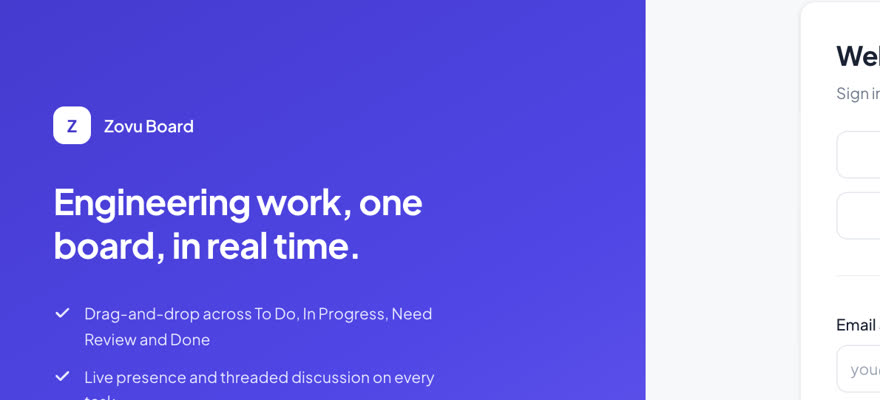
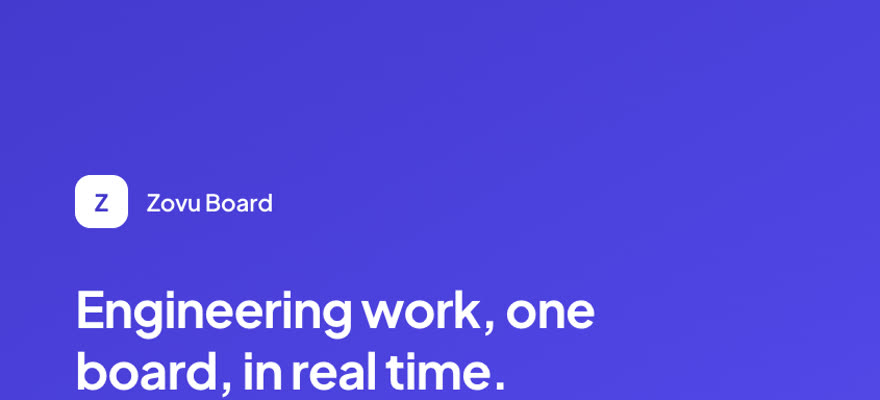
feat(site): wider layout, hand-ordered lead, VaultSplit link, drop timer
- Page container goes from max-w-5xl (1024px) to a shared .container-page
  at max-w-[1400px]; content width on a 1440px screen is now 1320px
  instead of 1024. Header, hero, feed and footer all use it, so they stay
  aligned.
- Removes the session-elapsed timer from the hero. The desk clock stays.
- Feed lead is now hand-ordered: Hymnes, EdoMatch, StudyStats, AI Fitness,
  01 Supplies, Concours de Dictée ISDI, BSc. To make that hold on a
  multi-column layout, the packer deals the lead block round-robin across
  columns so it reads 1-2-3 along the rows, then fills the remainder
  longest-first for balance. Column spread stays at 3.7%.
- VaultSplit now links vaultsplit.co rather than the GitHub org, and the
  role card says what the product actually is.
- Re-cropped the Zovu cover, which was clipping mid-word at the wider
  card size.

diff --git a/src/components/site/Feed.tsx b/src/components/site/Feed.tsx
@@ -1,6 +1,6 @@
 import FeedCard from "@/components/site/FeedCard";
 import type { Card } from "@/data/feed";
-import { cards, tagCounts } from "@/data/feed";
+import { cards, leadCardIds, tagCounts } from "@/data/feed";
 import { useEffect, useMemo, useRef, useState } from "react";
 
 const PAGE = 12;
@@ -32,36 +32,44 @@ function useColumnCount() {
  * Packs cards into columns using their `weight` height hint, so the layout is
  * balanced on first paint instead of reflowing once images load.
  *
- * Placing cards in feed order and always taking the shortest column leaves big
- * ragged columns — a tall card arriving last has nowhere good to go. Assigning
- * the *tallest* cards first (longest-processing-time first) fixes that, and
- * re-sorting each column by feed position afterwards means each column still
- * reads top-to-bottom in order.
+ * Two passes, because balance alone doesn't respect editorial order:
  *
- * The first card is pinned to column 0 so the pitch always leads the feed.
+ * 1. The lead cards go in first, dealt across the columns left to right. That
+ *    makes them read 1-2-3 along the top rows, which is what "put these first"
+ *    means on a multi-column layout — placing them by height instead would
+ *    scatter the order.
+ * 2. Everything else is placed longest-first (LPT). Assigning the tallest
+ *    remaining card to the shortest column is what keeps the columns even;
+ *    doing it in feed order instead leaves a tall card arriving last with
+ *    nowhere good to go.
+ *
+ * Each column is then sorted by feed position. Lead cards sort above the rest
+ * automatically, since they occupy the lowest indices.
  */
-function balance(items: Card[], cols: number): Card[][] {
+function balance(items: Card[], cols: number, leadCount: number): Card[][] {
   const columns: number[][] = Array.from({ length: cols }, () => []);
   const heights: number[] = new Array(cols).fill(0);
 
-  const shortest = () => {
-    let best = 0;
-    for (let i = 1; i < cols; i++) if (heights[i] < heights[best]) best = i;
-    return best;
+  const place = (index: number, weight: number, column?: number) => {
+    let target = column ?? 0;
+    if (column === undefined) {
+      for (let i = 1; i < cols; i++) if (heights[i] < heights[target]) target = i;
+    }
+    columns[target].push(index);
+    heights[target] += weight;
   };
 
-  const rest = items.map((item, index) => ({ item, index }));
-  const pinned = rest.shift();
-  if (pinned) {
-    columns[0].push(pinned.index);
-    heights[0] += pinned.item.weight;
-  }
+  // Pass 1 — the lead block, dealt round-robin so row order matches feed order.
+  items.slice(0, leadCount).forEach((item, index) => {
+    place(index, item.weight, index % cols);
+  });
 
-  for (const { item, index } of [...rest].sort((a, b) => b.item.weight - a.item.weight)) {
-    const target = shortest();
-    columns[target].push(index);
-    heights[target] += item.weight;
-  }
+  // Pass 2 — everything else, tallest first.
+  items
+    .slice(leadCount)
+    .map((item, i) => ({ item, index: leadCount + i }))
+    .sort((a, b) => b.item.weight - a.item.weight)
+    .forEach(({ item, index }) => place(index, item.weight));
 
   return columns.map((column) => column.sort((a, b) => a - b).map((i) => items[i]));
 }
@@ -78,7 +86,14 @@ const Feed = () => {
   );
 
   const visible = filtered.slice(0, limit);
-  const columns = useMemo(() => balance(visible, cols), [visible, cols]);
+  // Lead cards sit at the front of the feed, so filtering preserves the block —
+  // count how many survived rather than assuming a fixed size.
+  const leadCount = useMemo(() => {
+    let n = 0;
+    while (n < visible.length && leadCardIds.has(visible[n].id)) n++;
+    return n;
+  }, [visible]);
+  const columns = useMemo(() => balance(visible, cols, leadCount), [visible, cols, leadCount]);
 
   const selectTag = (tag: string | null) => {
     setActive(tag);

diff --git a/src/data/feed.ts b/src/data/feed.ts
@@ -59,6 +59,8 @@ export interface RoleCard extends BaseCard {
   logo?: string;
   /** Apps that shipped under this role — rendered as a row of store icons. */
   apps?: { name: string; icon: string; url?: string }[];
+  /** Optional outbound links, e.g. the company's product site. */
+  links?: { label: string; href: string }[];
 }
 
 export interface StatCard extends BaseCard {
@@ -275,13 +277,14 @@ const roles: RoleCard[] = [
     kind: "role",
     date: "2026-09-01",
     tags: ["fintech", "mobile", "flutter"],
-    weight: 2.2,
+    weight: 3.2,
     title: "Senior Mobile Engineer",
     company: "VaultSplit",
     period: "2026 — Present",
     location: "Remote",
-    body: "Shipping the product's mobile surface — release pipeline, accessibility and payments integration.",
+    body: "Autonomous finance for founders — revenue split into vaults on arrival, reconciled in a double-entry ledger, with an AI CFO on top. I ship the mobile surface: release pipeline, accessibility and payments.",
     current: true,
+    links: [{ label: "vaultsplit.co", href: "https://vaultsplit.co" }],
   },
   {
     id: "role-upwork",
@@ -444,25 +447,50 @@ const repos: RepoCard[] = github.repos
 /* -------------------------------------------------------------------------- */
 
 /**
- * Feed order: the pitch, the shipped products, then the roles those products
- * shipped under — that's the reason anyone is on this page, and it keeps the
- * store icons above the fold. Everything after is chronological, so the feed
- * still reads as a timeline rather than a ranked list.
+ * The lead of the feed is hand-ordered rather than sorted — these are the cards
+ * that should be seen first, in this sequence, regardless of date. Everything
+ * not named here falls through to the chronological tail below.
  */
-const withApps = (r: RoleCard) => Boolean(r.apps?.length);
+const LEAD_ORDER = [
+  "hymnes",
+  "role-edomatch",
+  "studystats",
+  "ai-fitness",
+  "role-01supplies",
+  "isdi-dictee",
+  "education",
+];
 
-const featured: Card[] = [pitch, ...projects, ...roles.filter(withApps)];
-
-const chronological: Card[] = [
+const everything: Card[] = [
+  ...projects,
   ...notes,
-  ...roles.filter((r) => !withApps(r)),
+  ...roles,
   ...stats,
   stack,
   education,
   ...repos,
-].sort((a, b) => (b.date ?? "").localeCompare(a.date ?? ""));
+];
 
-export const cards: Card[] = [...featured, ...chronological];
+const byId = new Map(everything.map((c) => [c.id, c]));
+
+const lead: Card[] = LEAD_ORDER.map((id) => byId.get(id)).filter(
+  (c): c is Card => Boolean(c)
+);
+const leadIds = new Set(lead.map((c) => c.id));
+
+const rest: Card[] = everything
+  .filter((c) => !leadIds.has(c.id))
+  .sort((a, b) => (b.date ?? "").localeCompare(a.date ?? ""));
+
+// The pitch stays pinned at the very top: it's the call to action, not an
+// entry in the work list.
+export const cards: Card[] = [pitch, ...lead, ...rest];
+
+/**
+ * Ids that must stay at the top of the feed. The masonry packer uses this to
+ * fill the first rows with them before it balances anything else in.
+ */
+export const leadCardIds = new Set<string>([pitch.id, ...lead.map((c) => c.id)]);
 
 export const TAG_LABELS: Record<string, string> = {
   flutter: "flutter",

diff --git a/src/components/site/SetupScene.tsx b/src/components/site/SetupScene.tsx
@@ -13,36 +13,22 @@ const VIDEO_SRC: string | null = null;
 /** Togo has no DST, so the workshop clock is a fixed UTC+0 render. */
 const LOME = "Africa/Lome";
 
-const pad = (n: number) => String(n).padStart(2, "0");
-
-/**
- * Live clock at the desk plus a session timer. The elapsed counter starts when
- * the scene mounts, so it reads as a recording that began the moment you
- * arrived rather than as a fake statistic.
- */
-function useClocks() {
+/** Live local time at the desk, ticking once a second. */
+function useDeskClock() {
   const [now, setNow] = useState(() => new Date());
-  const startedAt = useRef(Date.now());
 
   useEffect(() => {
     const id = setInterval(() => setNow(new Date()), 1000);
     return () => clearInterval(id);
   }, []);
 
-  const elapsed = Math.floor((now.getTime() - startedAt.current) / 1000);
-
-  return {
-    clock: new Intl.DateTimeFormat("en-GB", {
-      timeZone: LOME,
-      hour: "2-digit",
-      minute: "2-digit",
-      second: "2-digit",
-      hour12: false,
-    }).format(now),
-    elapsed: `${pad(Math.floor(elapsed / 3600))}:${pad(Math.floor(elapsed / 60) % 60)}:${pad(
-      elapsed % 60
-    )}`,
-  };
+  return new Intl.DateTimeFormat("en-GB", {
+    timeZone: LOME,
+    hour: "2-digit",
+    minute: "2-digit",
+    second: "2-digit",
+    hour12: false,
+  }).format(now);
 }
 
 const SetupScene = ({ children }: { children?: React.ReactNode }) => {
@@ -52,7 +38,7 @@ const SetupScene = ({ children }: { children?: React.ReactNode }) => {
   const [hasVideo, setHasVideo] = useState(false);
   const [playing, setPlaying] = useState(true);
   const [muted, setMuted] = useState(true);
-  const { clock, elapsed } = useClocks();
+  const clock = useDeskClock();
 
   const togglePlay = () => {
     const el = video.current;
@@ -125,10 +111,10 @@ const SetupScene = ({ children }: { children?: React.ReactNode }) => {
         className="absolute inset-x-0 bottom-0 h-28 bg-gradient-to-t from-background to-transparent"
       />
 
-      <div className="relative flex min-h-[92vh] flex-col justify-between px-4 pb-32 pt-24 sm:px-6">
-        <div className="mx-auto w-full max-w-5xl">{children}</div>
+      <div className="relative flex min-h-[92vh] flex-col justify-between pb-32 pt-24">
+        <div className="container-page">{children}</div>
 
-        <div className="mx-auto mt-10 flex w-full max-w-5xl flex-wrap items-end justify-between gap-4">
+        <div className="container-page mt-10 flex flex-wrap items-end justify-between gap-4">
           <div>
             <p className="flex items-center gap-2 font-mono text-[10px] font-medium uppercase tracking-[0.18em] text-white/70">
               <span className="status-dot bg-red-500 text-red-500" />
@@ -136,9 +122,6 @@ const SetupScene = ({ children }: { children?: React.ReactNode }) => {
             </p>
             <p className="mt-2 font-mono text-3xl font-medium tabular-nums text-white sm:text-4xl">
               {clock}
-            </p>
-            <p className="mt-1 font-mono text-xs tabular-nums text-white/60">
-              elapsed {elapsed} · you&apos;ve been here that long
             </p>
           </div>
 

diff --git a/src/components/site/FeedCard.tsx b/src/components/site/FeedCard.tsx
@@ -281,6 +281,20 @@ const FeedCard = ({ card }: { card: Card }) => {
             </div>
           </div>
           <p className="mt-3 text-sm leading-relaxed text-muted-foreground">{card.body}</p>
+          {card.links?.length ? (
+            <div className="mt-3 flex flex-wrap items-center gap-x-4 gap-y-2 text-sm">
+              {card.links.map((l) => (
+                <a
+                  key={l.label}
+                  href={l.href}
+                  {...linkAttrs(l.href)}
+                  className="link-underline relative z-10 inline-flex items-center gap-1 font-medium text-foreground"
+                >
+                  {l.label} <ArrowUpRight className="size-3.5" />
+                </a>
+              ))}
+            </div>
+          ) : null}
           {card.apps && <AppsRow apps={card.apps} />}
           <Tags tags={card.tags} />
         </article>

diff --git a/src/components/site/Header.tsx b/src/components/site/Header.tsx
@@ -48,7 +48,7 @@ const Header = () => {
           : "border-transparent bg-transparent text-white"
       }`}
     >
-      <div className="mx-auto flex h-14 max-w-5xl items-center justify-between gap-4 px-4 sm:px-6">
+      <div className="container-page flex h-14 items-center justify-between gap-4">
         <a href="/" className="group flex items-center gap-2 font-medium tracking-tight">
           <span
             className={`flex size-7 items-center justify-center rounded-lg text-[11px] font-semibold transition-colors ${

diff --git a/src/index.css b/src/index.css
@@ -139,6 +139,13 @@
 }
 
 @layer components {
+  /* One container for the header, hero, feed and footer so they stay aligned.
+     Wide enough that a 3-column feed fills a desktop screen instead of sitting
+     in a narrow strip. */
+  .container-page {
+    @apply mx-auto w-full max-w-[1400px] px-4 sm:px-6 lg:px-10;
+  }
+
   /* The one card recipe the whole feed is built from. */
   .card-surface {
     @apply relative overflow-hidden rounded-2xl border bg-card;

diff --git a/src/components/site/Footer.tsx b/src/components/site/Footer.tsx
@@ -1,6 +1,6 @@
 const Footer = () => (
   <footer className="mt-16 border-t">
-    <div className="mx-auto flex max-w-5xl flex-col gap-3 px-4 py-8 text-sm sm:flex-row sm:items-center sm:justify-between sm:px-6">
+    <div className="container-page flex flex-col gap-3 py-8 text-sm sm:flex-row sm:items-center sm:justify-between">
       <p className="text-muted-foreground">
         © {new Date().getFullYear()} Emmanuel Josué Djossou
       </p>

diff --git a/src/components/site/Intro.tsx b/src/components/site/Intro.tsx
@@ -39,7 +39,7 @@ const Intro = () => (
     >
       Currently building at{" "}
       <a
-        href="https://github.com/VaultSplit"
+        href="https://vaultsplit.co"
         target="_blank"
         rel="noopener noreferrer"
         className="link-underline font-medium text-white hover:text-white"

diff --git a/src/pages/Index.tsx b/src/pages/Index.tsx
@@ -19,7 +19,7 @@ const Index = () => {
           <Intro />
         </SetupScene>
 
-        <div className="mx-auto max-w-5xl px-4 sm:px-6">
+        <div className="container-page">
           <Contributions />
           <Feed />
           <About />
